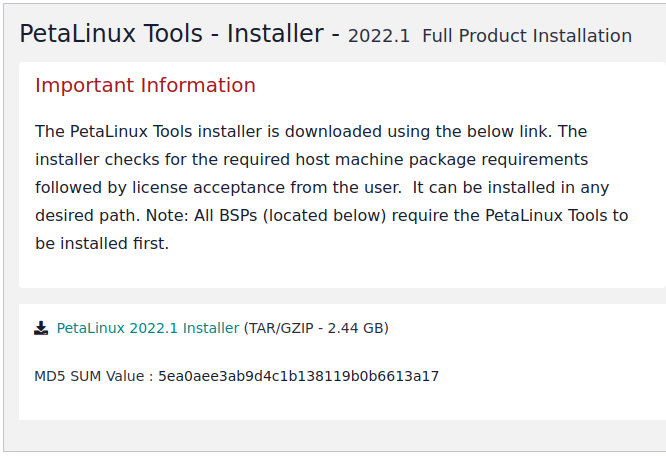
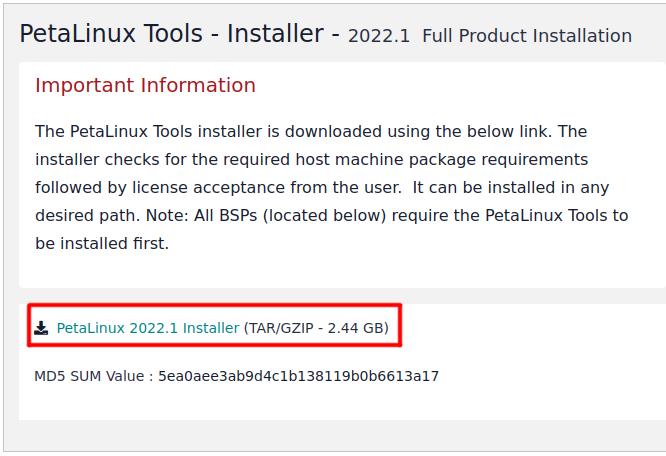
petalinux setup done

Changed region(s): [[0.03, 0.6447, 0.6306, 0.7675]]

diff --git a/petalinux_setup/README.md b/petalinux_setup/README.md
@@ -45,9 +45,31 @@ This is where Petalinux comes into play. Using Petalinux, we are able to integra
 ```ia32gcc1```<br>
 ```ia32stdc++6```<br>
 ```libselinux1```<br>
-    + It is important to remember that you may have many of these already installed, however, it is better to make sure by attempting to install it rather than guessing and not knowing why it does not work later.<br>
+    + It is important to remember that you may have many of these already installed, however, it is better to make sure by attempting to install it rather than guessing and not knowing why it does not work later.<br> <br>
 
 2. Downloading the Petalinux 2022.1 installer.
     + This requires a similar process to Vivado and Vitis.
-    + You first need to go to the Xilinx download page [here](https://www.xilinx.com/support/download/index.html/content/xilinx/en/downloadNav/embedded-design-tools/2022-1.html)
-    +
+    + You first need to go to the Xilinx download page [here](https://www.xilinx.com/support/download/index.html/content/xilinx/en/downloadNav/embedded-design-tools/2022-1.html)<br>
+![petalinux-webpage](../img/Petalinux_installer_page.png)<br>
+    + Click on the on the *Petalinux 2022.1 Installer (TAR/GZIP - 2.44 GB)*
+    + You will need to login again, then click **Download**
+    + The download file is something like *petalinux-v2022.1-04191534-installer.run*<br> <br>
+3. Changing permissions of *petalinux-v2022.1-04191534-installer.run*
+    + We complete the same process as with Vivado and Vitis with using the following command: <br>
+    ```sudo chmod 777 petalinux-v2022.1-04191534-installer.run```<br><br>
+4. Install Petalinux
+    + This is a lot easier than Vivado Vitis. Simply use the following commands in the terminal in the directory where the now *runnable* installer file resides (should be in *~/Downloads*). 
+    + Assuming my install file is in my *~/Downloads* directory, I can create an installation directory called *petalinux_dir*: <br>
+```mkdir ../petalinux_dir```<br>
+    + This will create a new installation directory in my user directory called *Petalinux_dir*.<br>
+```./petalinux-v2022.1-04191534-installer.run ../petalinux_dir```<br>
+
+    + This will prompt to accept user agreements. It is similar to **vi** or **vim**, read through it (if you want) and then press 'q' and then 'y' to continue. This step will be required multiple times. <br> <br>
+5. Congrats! You have now installed **Petalinux**.
+
+---
+
+### Potential Issues
+With using Petalinux, there is a great deal that can go wrong. There is a large amount of possible configurations that can be made, and the wrong one can lead to errors that cannot be easily diagnosed. <br><br>
+One such issue I encountered was requiring a tftp server. This was rather simple to implement. All this does is write the output of a Petalinux build to a different directory in the root file (/).
+    
